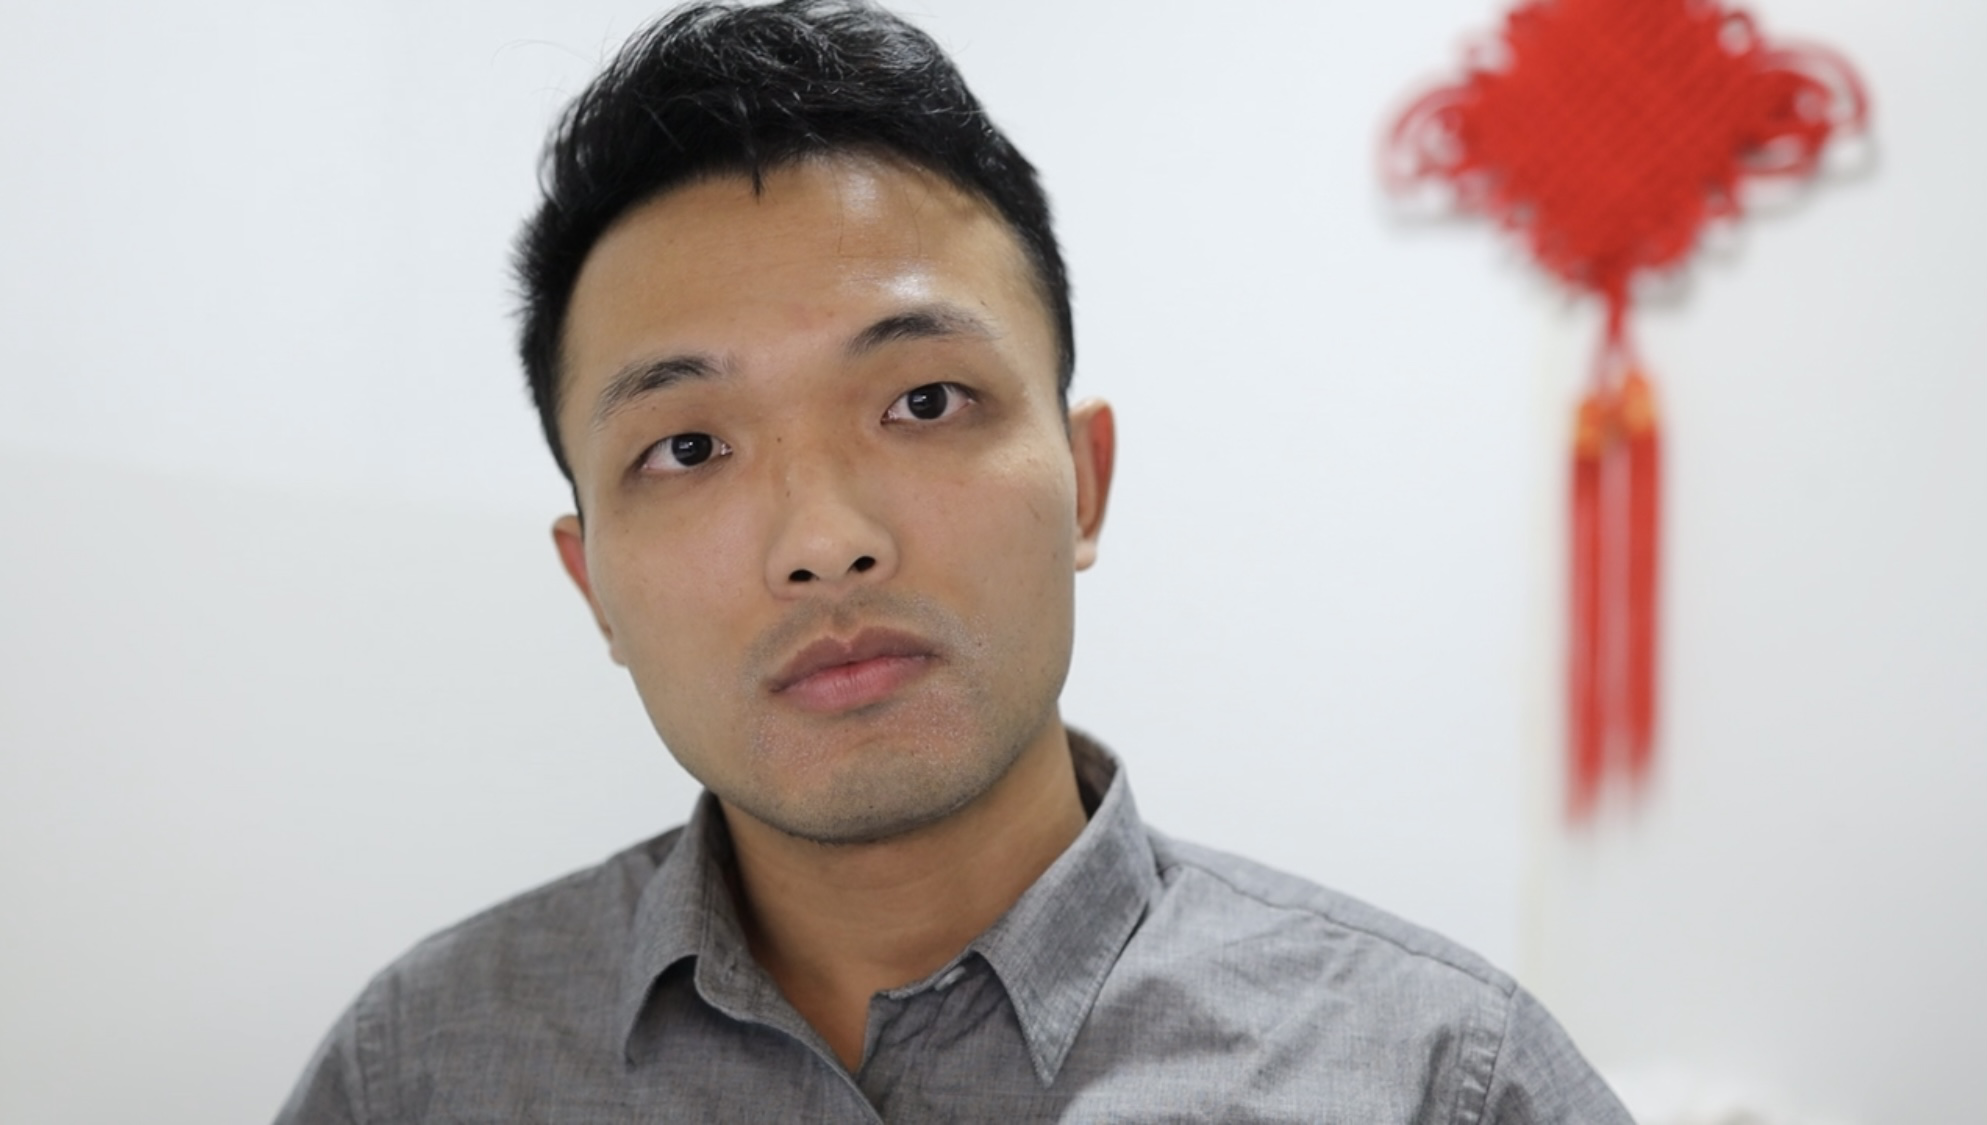
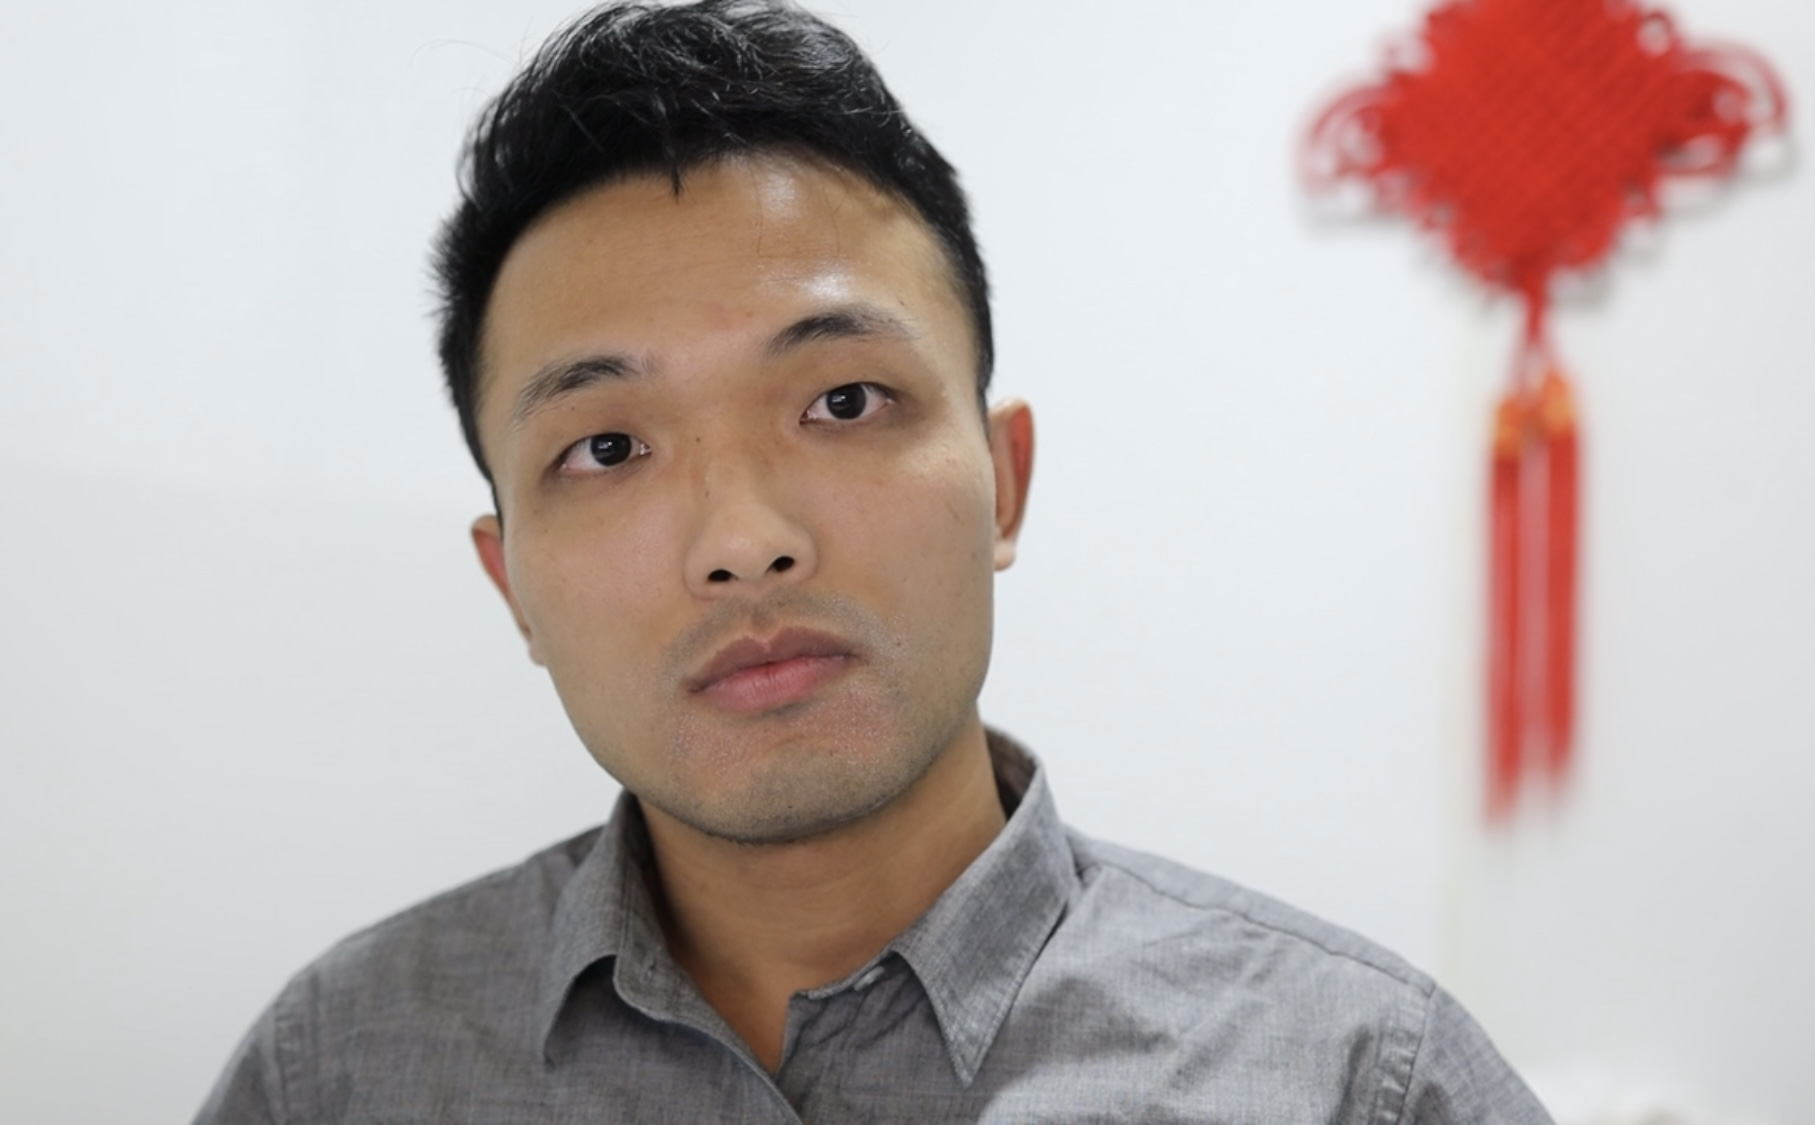
modify aboutme pic

diff --git a/about.md b/about.md
@@ -3,7 +3,7 @@ layout: article
 titles: About
 ---
 ## About Me
-<img class="shadow" src="/assets/about/CYF.png" height="180" width="auto" style="border-radius:5%; float: right; margin-left: 30px; margin-bottom: 30px" />
+<img class="shadow" src="/assets/about/CYF.png" height="200" width="auto" style="border-radius:5%; float: right; margin-left: 30px; margin-bottom: 30px" />
 
 <p style ="text-align:justify;">I have received my M. Sc. degree from the <b>Nanjing University of Aeronautics and Astronautics</b> (<a href="https://www.nuaa.edu.cn/479/list.htm" style="color:#0066CC" target="_blank" rel="noopener noreferrer">NUAA</a>) since 2019. During my M. Sc. study, I worked at the College of Mechanical and Electrical Engineering (<a href="http://cmee.nuaa.edu.cn/eng/13604/list.htm" style="color:#0066CC" target="_blank" rel="noopener noreferrer">CMEE</a>), NUAA, in Nanjing, Jiangsu Province, P. R. China. After that, I worked as a software engineer for 2 years or so at the Department of Information and Communication Technology, <B>Huawei Technologies Co., Ltd.</b> (<a href="https://www.huawei.com/en/corporate-information" style="color:#0066CC" target="_blank" rel="noopener noreferrer">HUAWEI</a>).</p>
 
